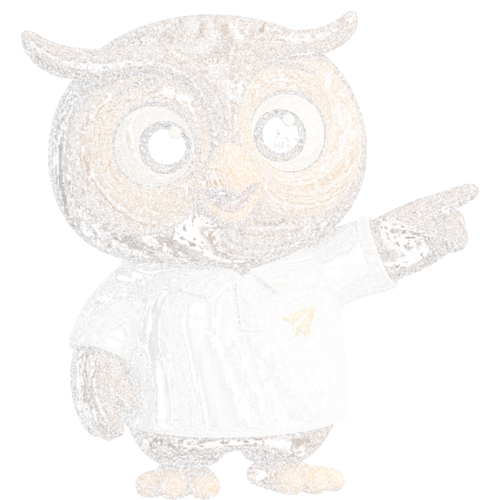
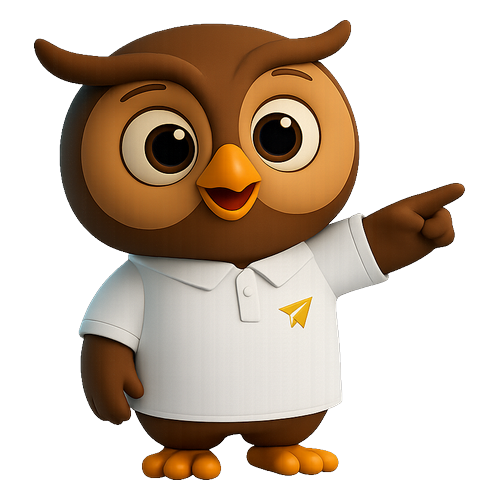
Buho WebM VP9 transparencia real

diff --git a/src/components/chat/ChatInterface.tsx b/src/components/chat/ChatInterface.tsx
@@ -618,17 +618,16 @@ export default function ChatInterface({ usuario, materiasDisponibles: materiasIn
               {cargando ? (idiomaIngles ? '💬 Owlaris is thinking...' : '💬 Owlaris está pensando...') : (idiomaIngles ? '🎙️ Listening...' : '🎙️ Escuchando...')}
             </div>
 
-            {/* Búho animado CSS premium */}
-            <div style={{position:'relative',width:'280px',height:'280px',display:'flex',alignItems:'center',justifyContent:'center'}}>
-              {/* Rings pulsantes */}
-              <div style={{position:'absolute',width:'280px',height:'280px',borderRadius:'50%',border:'2px solid rgba(109,40,217,.2)',animation:cargando?'ringPulse 0.6s ease-in-out infinite':'ringPulse 1.8s ease-in-out infinite'}}/>
-              <div style={{position:'absolute',width:'240px',height:'240px',borderRadius:'50%',border:'2px solid rgba(109,40,217,.15)',animation:cargando?'ringPulse 0.6s ease-in-out infinite 0.15s':'ringPulse 1.8s ease-in-out infinite 0.4s'}}/>
-              <div style={{position:'absolute',width:'200px',height:'200px',borderRadius:'50%',background:'radial-gradient(circle,rgba(109,40,217,.06) 0%,transparent 70%)',animation:'ringPulse 1.8s ease-in-out infinite 0.8s'}}/>
-              {/* Búho */}
-              <div style={{animation:cargando?'buhoHabla 0.5s ease-in-out infinite alternate':'buhoEscucha 3s ease-in-out infinite',filter:'drop-shadow(0 12px 40px rgba(109,40,217,.25))'}}>
-                <img src="/buho.png" alt="Owlaris"
-                  style={{width:'220px',height:'220px',objectFit:'contain'}}/>
-              </div>
+            {/* Búho animado WebM con transparencia */}
+            <div style={{position:'relative',width:'300px',height:'300px',display:'flex',alignItems:'center',justifyContent:'center'}}>
+              <div style={{position:'absolute',width:'300px',height:'300px',borderRadius:'50%',border:'2px solid rgba(109,40,217,.2)',animation:cargando?'ringPulse 0.6s ease-in-out infinite':'ringPulse 2s ease-in-out infinite'}}/>
+              <div style={{position:'absolute',width:'260px',height:'260px',borderRadius:'50%',border:'2px solid rgba(109,40,217,.1)',animation:cargando?'ringPulse 0.6s ease-in-out infinite 0.2s':'ringPulse 2s ease-in-out infinite 0.5s'}}/>
+              <video
+                key={cargando ? 'hablando' : 'escuchando'}
+                autoPlay loop muted playsInline
+                style={{width:'280px',height:'280px',objectFit:'contain',background:'transparent',mixBlendMode:'normal'}}>
+                <source src={cargando ? '/assets/buho-hablando.webm' : '/assets/buho-escuchando.webm'} type='video/webm'/>
+              </video>
             </div>
 
             {/* Input de texto */}